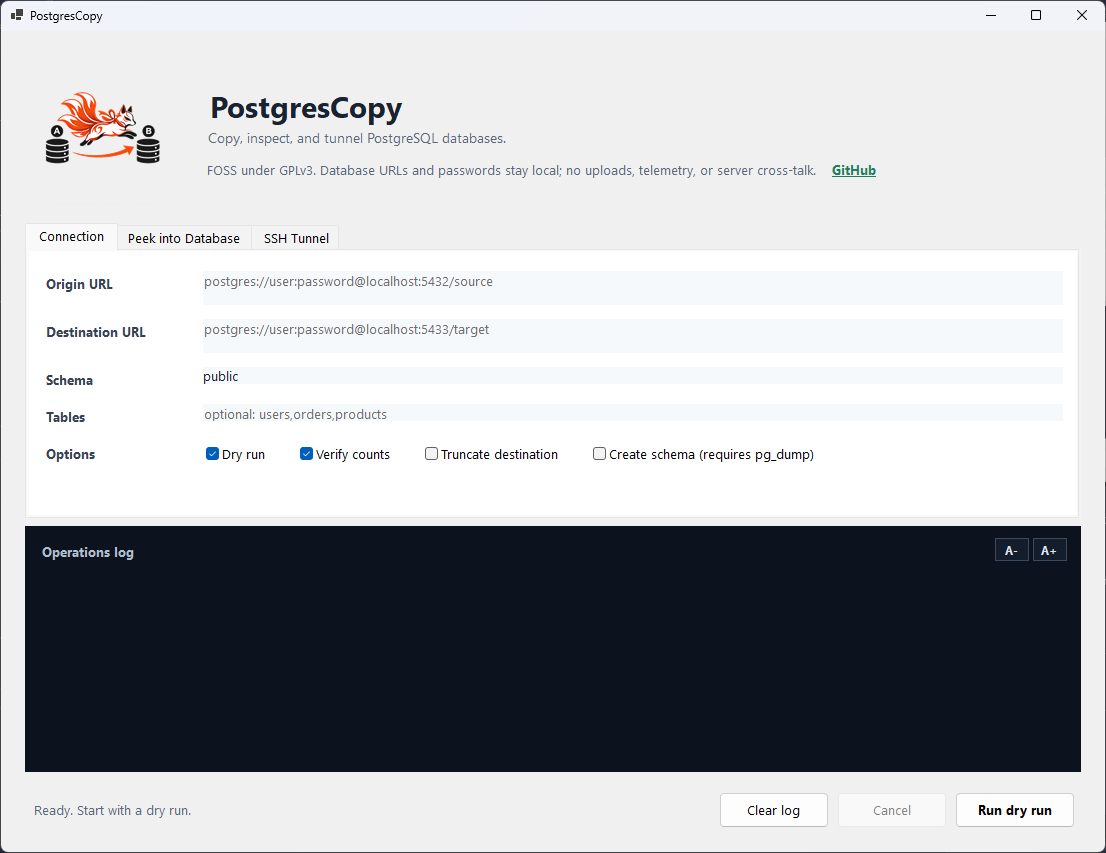
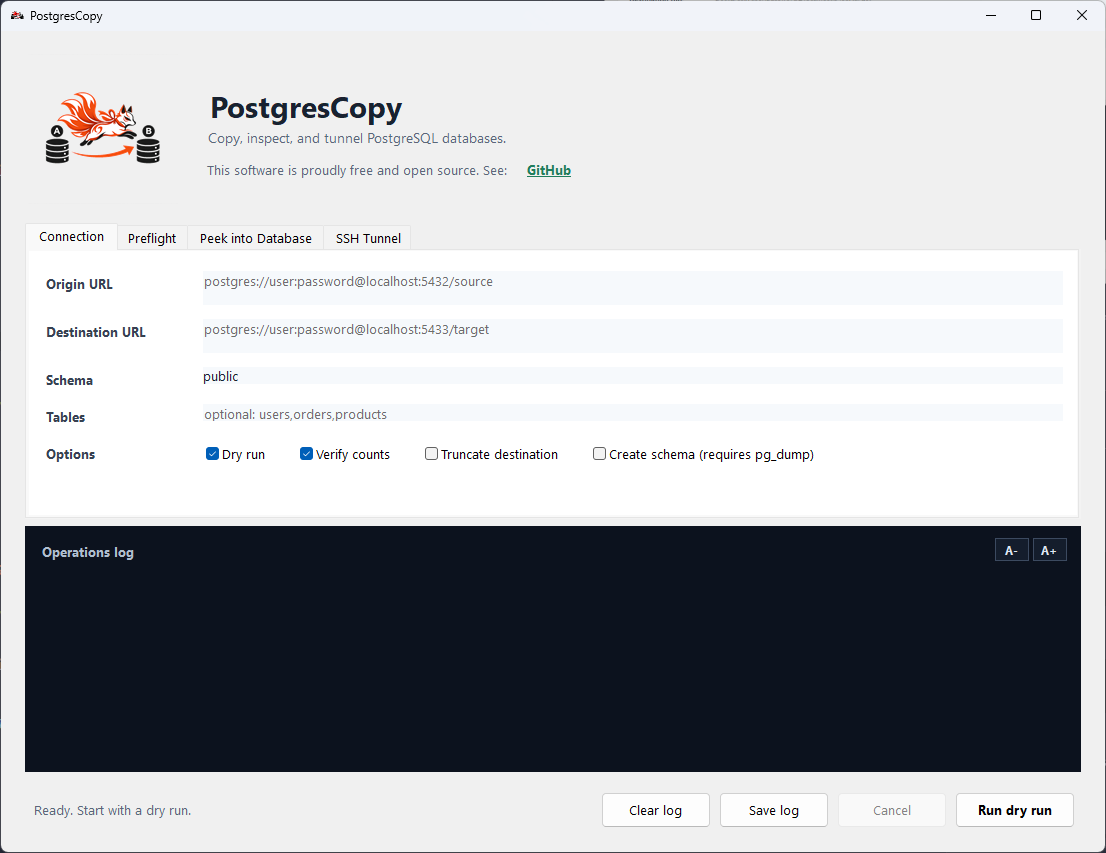
feat: Update MainForm to enhance transparency in software description

diff --git a/src/PostgresCopy.Desktop/MainForm.cs b/src/PostgresCopy.Desktop/MainForm.cs
@@ -273,7 +273,7 @@ public sealed class MainForm : Form
 
         var note = new Label
         {
-            Text = "This software is free and open source. It runs entirely on your machine, and does not collect or transmit any data. Please see the source code on GitHub for details.",
+            Text = "This software is proudly free and open source. See: ",
             AutoSize = true,
             ForeColor = MutedTextColor,
             Font = new Font(Font.FontFamily, 9.5f, FontStyle.Regular),
